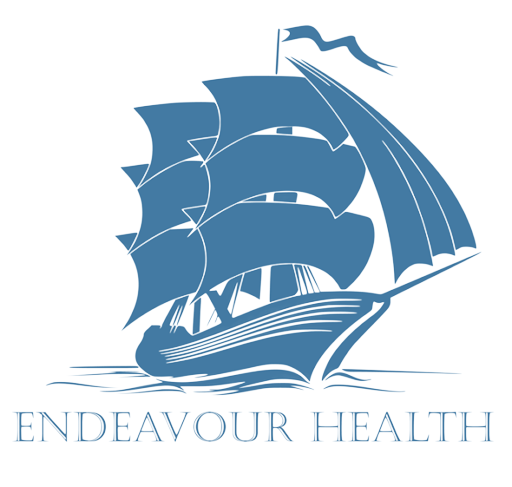
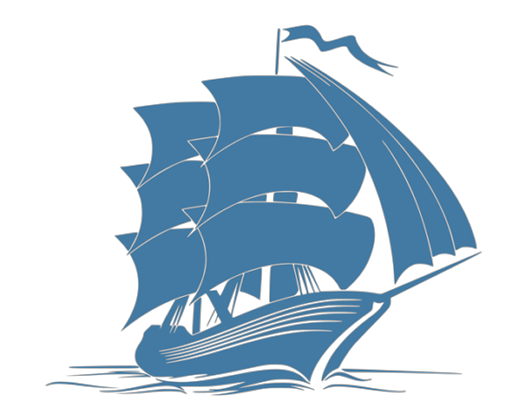
simple parallax implementation

Changed region(s): [[0.0312, 0.0298, 0.9688, 0.9826]]

diff --git a/endeavour-theme/home.html b/endeavour-theme/home.html
@@ -34,29 +34,32 @@ integrity="sha384-rbsA2VBKQhggwzxH7pPCaAqO46MgnOM80zW1RWuH61DGLwZJEdK2Kadq2F9CUG
 <!-- STYLE OVERRIDES JUST FOR INDEX PAGE -->
 
 <section class="endeavour_hero_masthead">
-
-    <div class="endeavour_container container">
-        <div class="endeavour_header_row row justify-content-center align-items-center py-4">
-            <div class="endeavour_header_col d-flex col-12 col-md-10">
-
-                <h1 class="text-white">Endeavour <em>Predict</em> </h1>
-                <h2 class="text-white pt-3">Clinical digital tools As A Service</h2>
-                <div class=" mb-5 adjectives-container" aria-hidden="true">
-					<ul class="text-white adjectives-list">
-						<li class="adjective"><h3><em>made safe.</em></h3></li>
-						<li class="adjective"><h3><em>made reliable.</em></h3></li>
-						<li class="adjective"><h3><em>made transparent.</em></h3></li>
-					</ul>
-				</div>
-
-                <!-- <button type="button" class="btn btn-dark endeavour_main_button py-2" > -->
-                <a class="btn endeavour_main_button py-2" href="../about/">About us</a>
-                <!-- </button> -->
-
-
+<div class="parallax-container">
+    
+        <div class="endeavour_container container">
+            <div class="endeavour_header_row row justify-content-center align-items-center py-4">
+                <div class="endeavour_header_col d-flex col-12 col-md-10">
+    
+                    <h1 class="text-white">Endeavour <em>Predict</em> </h1>
+                    <h2 class="text-white pt-3">Clinical digital tools As A Service</h2>
+                    <div class=" mb-5 adjectives-container" aria-hidden="true">
+                        <ul class="text-white adjectives-list">
+                            <li class="adjective"><h3><em>made safe.</em></h3></li>
+                            <li class="adjective"><h3><em>made reliable.</em></h3></li>
+                            <li class="adjective"><h3><em>made transparent.</em></h3></li>
+                        </ul>
+                    </div>
+    
+                    <!-- <button type="button" class="btn btn-dark endeavour_main_button py-2" > -->
+                    <a class="btn endeavour_main_button py-2" href="../about/">About us</a>
+                    <!-- </button> -->
+    
+    
+                </div>
             </div>
         </div>
-    </div>
+    
+</div>
 </section>
 <section class="endeavour_features">
     <div class="what_we_do container py-md-5">

diff --git a/docs/_assets/_stylesheets/extra.css b/docs/_assets/_stylesheets/extra.css
@@ -29,6 +29,32 @@
 
 /* MASTHEAD SECTION */
 
+ /* Turn off parallax scrolling for all tablets and phones. Increase/decrease the pixels if needed */
+ @media only screen and (max-device-width: 1366px) {
+  .parallax-container {
+    background-attachment: scroll;
+  }
+} 
+
+.parallax-container {
+  display: flex;
+  flex-direction: column;
+  align-items: center;
+  justify-content: center;
+
+  /*  this is where the magic happens:  */
+  background-attachment: fixed;
+
+  background-image: url('../_images/ship-reduce-opacity.png');
+  background-position: center;
+  background-size: 75vh;
+  background-repeat: no-repeat;
+  color: var(--color);
+  row-gap: 4rem;
+
+  text-align: center;
+}
+
 .endeavour_hero_masthead {
   background: linear-gradient(
     0deg,
